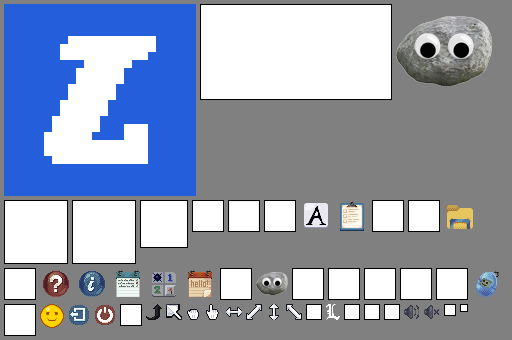
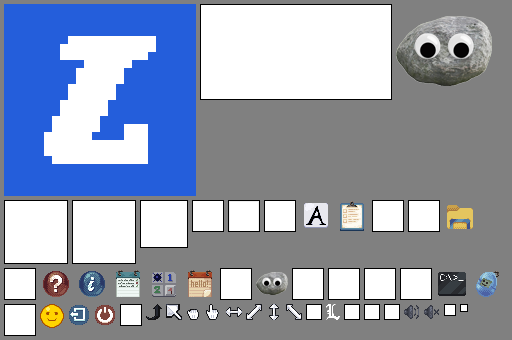
open the service worker cache once and serve the cached app when the network stalls

Changed region(s): [[0.8438, 0.7647, 0.9375, 0.8824]]

diff --git a/sw.js b/sw.js
@@ -1,5 +1,6 @@
-const CACHE_NAME = "lumen-app-b15b011321";
-const APP_SHELL = ["./index.html", "./css/lumen-vintage.css?v=7c90da89be", "./js/main.js?v=3ad478a9ff", "./css/sprites.css?v=60a1a37410", "./icons/favicon.png?v=6da4b3c16f", "./icons/app-icon.png?v=9e98d8ad02", "./icons/app-icon-512.png?v=0b82f5e871", "./js/data-core.mjs?v=c6f913b5f3", "./js/rock-lines.mjs?v=b747b167bd", "./manifest.webmanifest?v=fad35e93d7", "./sounds/open.mp3", "./sounds/close.mp3", "./sounds/minimize.mp3", "./sounds/restore.mp3", "./sounds/thud.mp3", "./sounds/win.mp3", "./sounds/boom.mp3", "./sounds/degauss.mp3", "./sounds/timer.mp3", "./sounds/flip.mp3", "./icons/wallpaper.png?v=5e0b52de42"];
+const CACHE_NAME = "lumen-app-4556a36c2b";
+const APP_SHELL = ["./index.html", "./css/lumen-vintage.css?v=7c90da89be", "./js/main.js?v=3ad478a9ff", "./css/sprites.css?v=487995139c", "./icons/favicon.png?v=6da4b3c16f", "./icons/app-icon.png?v=9e98d8ad02", "./icons/app-icon-512.png?v=0b82f5e871", "./js/data-core.mjs?v=c6f913b5f3", "./js/rock-lines.mjs?v=b747b167bd", "./manifest.webmanifest?v=fad35e93d7", "./sounds/open.mp3", "./sounds/close.mp3", "./sounds/minimize.mp3", "./sounds/restore.mp3", "./sounds/thud.mp3", "./sounds/win.mp3", "./sounds/boom.mp3", "./sounds/degauss.mp3", "./sounds/timer.mp3", "./sounds/flip.mp3", "./icons/wallpaper.png?v=5e0b52de42"];
+let cachePromise = null;
 
 self.addEventListener("install", (event) => {
   event.waitUntil(caches.open(CACHE_NAME).then(async (cache) => { for (const url of APP_SHELL) await cache.add(url); }));
@@ -15,25 +16,22 @@ self.addEventListener("fetch", event => {
   if (request.method !== "GET" || new URL(request.url).origin !== self.location.origin) return;
 
   event.respondWith((async () => {
-    const cache = await caches.open(CACHE_NAME);
+    const cache = await (cachePromise ||= caches.open(CACHE_NAME));
     if (request.mode !== "navigate" && new URL(request.url).searchParams.has("v")) {
       const cached = await cache.match(request);
       if (cached) return cached;
     }
+    const network = fetch(new Request(request, { cache: "no-store" })).then((response) => { if (response.ok && response.type !== "opaque") event.waitUntil(cache.put(request, response.clone()).catch(() => {})); return response; });
+    const shell = request.mode === "navigate" ? await cache.match("./index.html", { ignoreSearch: true }) : null;
     try {
-      const response = await fetch(new Request(request, { cache: "no-store" }));
-      if (response.ok && response.type !== "opaque") {
-        event.waitUntil(cache.put(request, response.clone()).catch(() => {}));
-      }
-      return response;
+      if (!shell) return await network;
+      const first = await Promise.race([network, new Promise((resolve) => setTimeout(resolve, 3000))]);
+      if (first) return first;
+      event.waitUntil(network.catch(() => {}));
+      return shell;
     } catch {
       const cached = await cache.match(request, { ignoreSearch: true });
-      if (cached) return cached;
-      if (request.mode === "navigate") {
-        const shell = await cache.match("./index.html", { ignoreSearch: true });
-        if (shell) return shell;
-      }
-      return Response.error();
+      return cached || shell || Response.error();
     }
   })());
 });

diff --git a/css/sprites.css b/css/sprites.css
@@ -41,7 +41,7 @@
[8 lines of base64/hex data omitted]

diff --git a/index.html b/index.html
@@ -15,7 +15,7 @@
     <link rel="icon" href="icons/favicon.png?v=6da4b3c16f" type="image/png">
     <title>LUMEN - Builder Desk</title>
 
-    <link rel="stylesheet" href="css/sprites.css?v=60a1a37410" />
+    <link rel="stylesheet" href="css/sprites.css?v=487995139c" />
     <link rel="stylesheet" href="css/lumen-vintage.css?v=7c90da89be" />
     <link rel="modulepreload" href="js/data-core.mjs?v=c6f913b5f3">
   </head>
